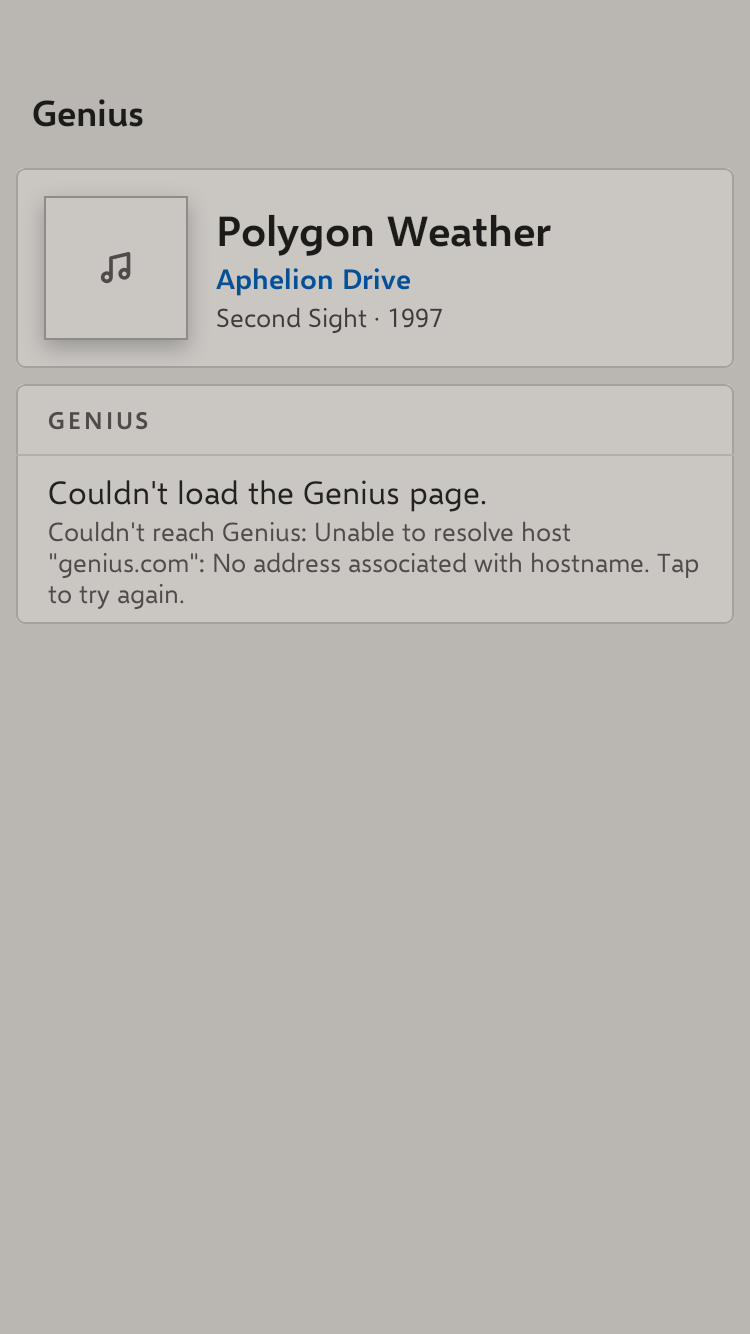
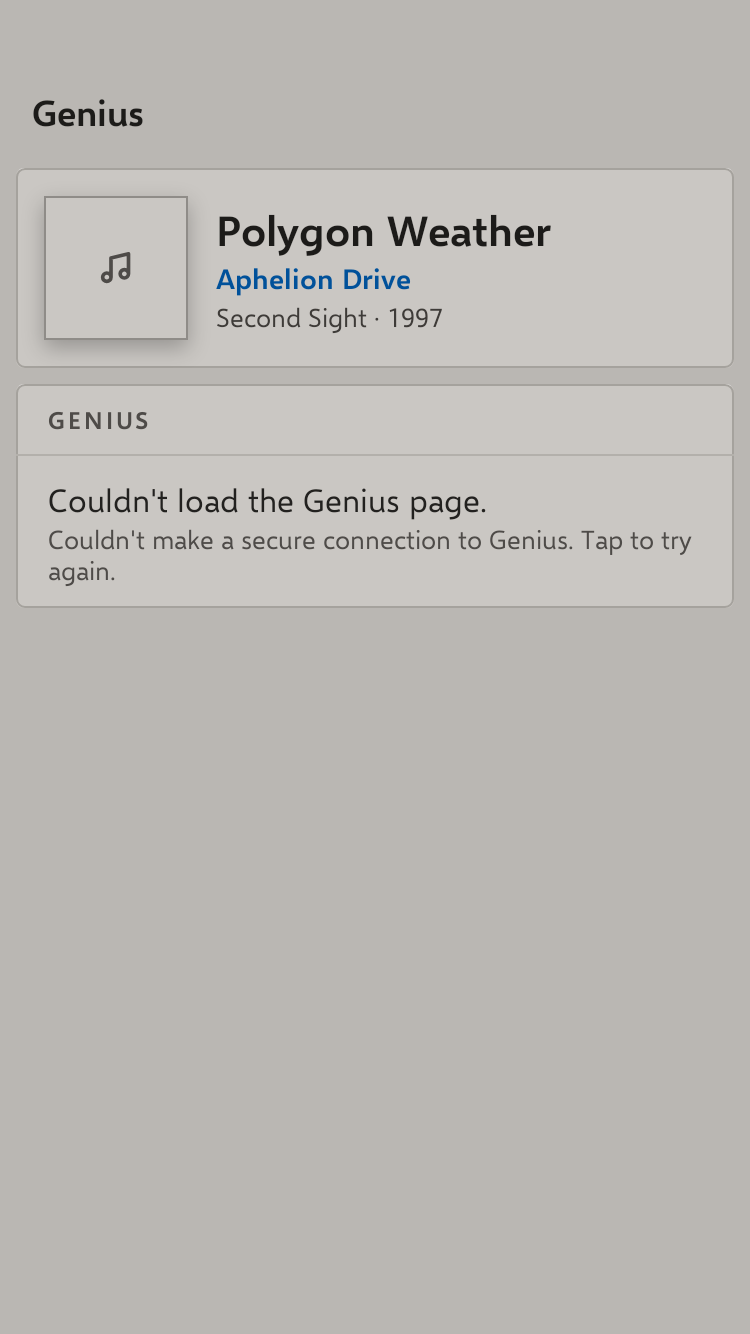
Network errors in plain words (UI/UX review #2)
Genius, Lyrics, Last.fm and the update showed Java's own exception text
when a request got no answer ("Couldn't reach Genius: java.security.cert.
CertPathValidatorException: ..."). One helper, core net/NetworkError,
now words them: "<Service> didn't answer in time.", "No internet
connection.", "Couldn't make a secure connection to <Service>.", or
"Couldn't reach <Service>." ("Couldn't download the update." for the
APK download). Java's text, with its causes, goes to logcat under
AudioFoolNet.

Used by GeniusClient, LrcLibClient, LastFmApi, GitHubReleases and
ApkDownload. NetworkErrorTest added; the Genius, Lyrics and update tests
moved to the new wording. ThemeLab's failure fixtures re-worded and the
12 genius-, lyrics- and listening-history-failed pictures re-recorded.

Docs: spec 2 (Shared parts), progress.md decision and S24 test item,
code map, the review marks #2 built, HANDOFF.

Changed region(s): [[0.0613, 0.3381, 0.92, 0.461]]

diff --git a/core/src/test/kotlin/com/mpaulrenlund/audiofool/core/net/NetworkErrorTest.kt b/core/src/test/kotlin/com/mpaulrenlund/audiofool/core/net/NetworkErrorTest.kt
@@ -1,0 +1,70 @@
+package com.mpaulrenlund.audiofool.core.net
+
+import org.junit.After
+import org.junit.Test
+import java.io.IOException
+import java.net.ConnectException
+import java.net.SocketTimeoutException
+import java.net.UnknownHostException
+import java.security.cert.CertPathValidatorException
+import javax.net.ssl.SSLHandshakeException
+import kotlin.test.assertEquals
+import kotlin.test.assertTrue
+
+// The UI/UX review of 2026-11-22, finding 2: network failures in plain words,
+// Java's own text to the log. The exceptions are the ones Android's java.net throws.
+
+class NetworkErrorTest {
+    @After
+    fun quiet() {
+        NetworkError.log = {}
+    }
+
+    @Test
+    fun `no answer in time says so`() {
+        assertEquals("Genius didn't answer in time.", NetworkError.sentence("Genius", SocketTimeoutException("timeout")))
+    }
+
+    @Test
+    fun `a name that doesn't resolve means no internet`() {
+        val e = UnknownHostException("Unable to resolve host \"lrclib.net\": No address associated with hostname")
+        assertEquals("No internet connection.", NetworkError.sentence("LRCLIB", e))
+    }
+
+    @Test
+    fun `a certificate Android doesn't trust is no secure connection`() {
+        val e = SSLHandshakeException("java.security.cert.CertPathValidatorException: Trust anchor for certification path not found.")
+        e.initCause(CertPathValidatorException("Trust anchor for certification path not found."))
+        assertEquals("Couldn't make a secure connection to Genius.", NetworkError.sentence("Genius", e))
+    }
+
+    @Test
+    fun `the cause is found under a wrapper`() {
+        val e = IOException("request failed", UnknownHostException("Unable to resolve host \"ws.audioscrobbler.com\""))
+        assertEquals("No internet connection.", NetworkError.sentence("Last.fm", e))
+    }
+
+    @Test
+    fun `anything else is couldn't reach, or the caller's own words`() {
+        val e = ConnectException("failed to connect to github.com/140.82.121.3 (port 443): connect failed: ECONNREFUSED")
+        assertEquals("Couldn't reach GitHub.", NetworkError.sentence("GitHub", e))
+        assertEquals(
+            "Couldn't download the update.",
+            NetworkError.sentence("GitHub", IOException("connection reset"), otherwise = "Couldn't download the update."),
+        )
+    }
+
+    @Test
+    fun `Java's own text goes to the log, causes and all`() {
+        val logged = mutableListOf<String>()
+        NetworkError.log = { logged += it }
+        val e = SSLHandshakeException("handshake failed")
+        e.initCause(CertPathValidatorException("Trust anchor for certification path not found."))
+
+        NetworkError.sentence("Genius", e)
+
+        val line = logged.single()
+        assertTrue(line.startsWith("Genius: javax.net.ssl.SSLHandshakeException: handshake failed"), line)
+        assertTrue("CertPathValidatorException: Trust anchor for certification path not found." in line, line)
+    }
+}

diff --git a/app/src/test/java/com/mpaulrenlund/audiofool/theme/ThemeLabTest.kt b/app/src/test/java/com/mpaulrenlund/audiofool/theme/ThemeLabTest.kt
@@ -360,7 +360,7 @@ class ThemeLabTest {
         for ((name, note) in listOf(
             "update-checking" to Updates.Note.Checking,
             "update-none" to Updates.Note.UpToDate,
-            "update-check-failed" to Updates.Note.CheckFailed("Couldn't reach GitHub: no route"),
+            "update-check-failed" to Updates.Note.CheckFailed("No internet connection."),
         )) {
             shoot(device, name) {
                 Box(Modifier.fillMaxSize()) {
@@ -386,7 +386,7 @@ class ThemeLabTest {
         shoot(device, "listening-history-not-connected") { ListeningHistoryScreen(HistoryState.NotConnected, HistoryActions()) }
         shoot(device, "listening-history-failed") {
             ListeningHistoryScreen(
-                HistoryState(user = "questinnn", phase = HistoryState.Phase.Failed, error = "Couldn't reach Last.fm: Unable to resolve host \"ws.audioscrobbler.com\"."),
+                HistoryState(user = "questinnn", phase = HistoryState.Phase.Failed, error = "No internet connection."),
                 HistoryActions(),
             )
         }
@@ -405,7 +405,7 @@ class ThemeLabTest {
         }
         shoot(device, "genius-failed") {
             GeniusScreen(
-                GeniusState(song, GeniusRows.failed(GeniusException("Couldn't reach Genius: Unable to resolve host \"genius.com\": No address associated with hostname"))),
+                GeniusState(song, GeniusRows.failed(GeniusException("Couldn't make a secure connection to Genius."))),
                 album,
                 GeniusActions(),
             )
@@ -423,7 +423,7 @@ class ThemeLabTest {
         shoot(device, "lyrics-none") { LyricsScreen(LyricsState(song, note = LyricsNote(LyricsRows.NONE)), nowPlaying(), LyricsActions()) }
         shoot(device, "lyrics-failed") {
             LyricsScreen(
-                LyricsState(song, note = LyricsRows.failed(LyricsException("Couldn't reach LRCLIB: Unable to resolve host \"lrclib.net\": No address associated with hostname"))),
+                LyricsState(song, note = LyricsRows.failed(LyricsException("No internet connection."))),
                 nowPlaying(),
                 LyricsActions(),
             )

diff --git a/core/src/main/kotlin/com/mpaulrenlund/audiofool/core/net/NetworkError.kt b/core/src/main/kotlin/com/mpaulrenlund/audiofool/core/net/NetworkError.kt
@@ -1,0 +1,41 @@
+package com.mpaulrenlund.audiofool.core.net
+
+import java.io.IOException
+import java.net.SocketTimeoutException
+import java.net.UnknownHostException
+import javax.net.ssl.SSLException
+
+/**
+ * A request that failed before any answer came (Genius, LRCLIB, Last.fm, GitHub),
+ * in a sentence for the screen: the UI/UX review of 2026-11-22, finding 2.
+ *
+ * The desktop puts .NET's own message after "Couldn't reach Genius:"
+ * (`GeniusClient.cs`, `LastFmApi.cs`), and .NET's read as sentences ("No such host
+ * is known."). Java's don't ("java.security.cert.CertPathValidatorException: Trust
+ * anchor for certification path not found."), so Android words the common causes
+ * itself and sends Java's text to [log] instead.
+ */
+object NetworkError {
+    /** Where Java's own text goes; the app points it at logcat. Quiet in the tests. */
+    @Volatile
+    var log: (String) -> Unit = {}
+
+    /**
+     * Why [service] couldn't be asked: no answer in time, no internet (the name
+     * didn't resolve: no signal, airplane mode), no secure connection (a Wi-Fi
+     * sign-in page, a wrong clock), or else [otherwise].
+     */
+    fun sentence(service: String, e: IOException, otherwise: String = "Couldn't reach $service."): String {
+        val causes = generateSequence<Throwable>(e) { it.cause }.take(MAX_CAUSES).toList()
+        log("$service: " + causes.joinToString(" / caused by "))
+        return when {
+            causes.any { it is SocketTimeoutException } -> "$service didn't answer in time."
+            causes.any { it is UnknownHostException } -> "No internet connection."
+            causes.any { it is SSLException } -> "Couldn't make a secure connection to $service."
+            else -> otherwise
+        }
+    }
+
+    /** Enough to find the cause under a wrapper or two, and an end should causes ever loop. */
+    private const val MAX_CAUSES = 8
+}

diff --git a/app/src/main/java/com/mpaulrenlund/audiofool/AudioFoolApp.kt b/app/src/main/java/com/mpaulrenlund/audiofool/AudioFoolApp.kt
@@ -3,6 +3,7 @@ package com.mpaulrenlund.audiofool
 import android.app.Application
 import android.os.Build
 import android.os.SystemClock
+import android.util.Log
 import androidx.compose.runtime.getValue
 import androidx.compose.runtime.mutableIntStateOf
 import androidx.compose.runtime.mutableStateOf
@@ -10,6 +11,7 @@ import androidx.compose.runtime.setValue
 import com.mpaulrenlund.audiofool.core.genius.GeniusClient
 import com.mpaulrenlund.audiofool.core.genius.GeniusLookup
 import com.mpaulrenlund.audiofool.core.library.DriveChange
+import com.mpaulrenlund.audiofool.core.net.NetworkError
 import com.mpaulrenlund.audiofool.genius.Genius
 import com.mpaulrenlund.audiofool.core.lyrics.LrcLibClient
 import com.mpaulrenlund.audiofool.core.lyrics.OnlineLyrics
@@ -156,6 +158,8 @@ class AudioFoolApp : Application() {
 
     override fun onCreate() {
         super.onCreate()
+        // Java's own text for a failed request (the screens say it in plain words): logcat only.
+        NetworkError.log = { Log.w(NET_TAG, it) }
         settings = AppSettings(this)
         library = LibraryRepository(
             cachePath = File(noBackupFilesDir, "library.bin").path,
@@ -235,6 +239,9 @@ class AudioFoolApp : Application() {
 
         /** The 96-bar ones before 0.2.4, deleted at start. */
         const val OLD_WAVEFORMS = "waveforms"
+
+        /** Logcat's tag for requests that failed: `adb logcat -s AudioFoolNet:W`. */
+        const val NET_TAG = "AudioFoolNet"
     }
 }
 

diff --git a/core/src/main/kotlin/com/mpaulrenlund/audiofool/core/updates/GitHubReleases.kt b/core/src/main/kotlin/com/mpaulrenlund/audiofool/core/updates/GitHubReleases.kt
@@ -1,5 +1,6 @@
 package com.mpaulrenlund.audiofool.core.updates
 
+import com.mpaulrenlund.audiofool.core.net.NetworkError
 import com.mpaulrenlund.audiofool.core.scrobbling.HttpAnswer
 import kotlinx.coroutines.Dispatchers
 import kotlinx.coroutines.withContext
@@ -13,7 +14,6 @@ import kotlinx.serialization.json.booleanOrNull
 import kotlinx.serialization.json.longOrNull
 import java.io.IOException
 import java.net.HttpURLConnection
-import java.net.SocketTimeoutException
 import java.net.URI
 
 /** Why an update couldn't be looked up or downloaded, in words the pop-up shows. */
@@ -39,10 +39,8 @@ class GitHubReleases(private val url: String = RELEASES_API, private val transpo
     suspend fun list(): List<AppRelease> = withContext(Dispatchers.IO) {
         val answer = try {
             transport.get(url)
-        } catch (e: SocketTimeoutException) {
-            throw UpdateException("GitHub didn't answer in time.")
         } catch (e: IOException) {
-            throw UpdateException("Couldn't reach GitHub: ${e.message ?: e.javaClass.simpleName}")
+            throw UpdateException(NetworkError.sentence("GitHub", e))
         }
         if (answer.status !in 200..299) throw UpdateException("GitHub answered HTTP ${answer.status}.")
         val doc = try {

diff --git a/core/src/main/kotlin/com/mpaulrenlund/audiofool/core/lyrics/LrcLib.kt b/core/src/main/kotlin/com/mpaulrenlund/audiofool/core/lyrics/LrcLib.kt
@@ -1,5 +1,6 @@
 package com.mpaulrenlund.audiofool.core.lyrics
 
+import com.mpaulrenlund.audiofool.core.net.NetworkError
 import com.mpaulrenlund.audiofool.core.scrobbling.HttpAnswer
 import kotlinx.coroutines.Dispatchers
 import kotlinx.coroutines.withContext
@@ -14,7 +15,6 @@ import kotlinx.serialization.json.doubleOrNull
 import kotlinx.serialization.json.longOrNull
 import java.io.IOException
 import java.net.HttpURLConnection
-import java.net.SocketTimeoutException
 import java.net.URI
 import java.net.URLEncoder
 
@@ -64,10 +64,8 @@ class LrcLibClient(private val transport: LrcLibTransport = HttpTransport) {
     private suspend fun <T> request(path: String, notFoundIsNull: Boolean, read: (JsonElement) -> T?): T? = withContext(Dispatchers.IO) {
         val answer = try {
             transport.get(BASE_URL + path)
-        } catch (e: SocketTimeoutException) {
-            throw LyricsException("LRCLIB didn't answer in time.")
         } catch (e: IOException) {
-            throw LyricsException("Couldn't reach LRCLIB: ${e.message ?: e.javaClass.simpleName}")
+            throw LyricsException(NetworkError.sentence("LRCLIB", e))
         }
         if (answer.status == 404 && notFoundIsNull) return@withContext null
 

diff --git a/core/src/main/kotlin/com/mpaulrenlund/audiofool/core/genius/GeniusClient.kt b/core/src/main/kotlin/com/mpaulrenlund/audiofool/core/genius/GeniusClient.kt
@@ -1,5 +1,6 @@
 package com.mpaulrenlund.audiofool.core.genius
 
+import com.mpaulrenlund.audiofool.core.net.NetworkError
 import com.mpaulrenlund.audiofool.core.scrobbling.HttpAnswer
 import kotlinx.coroutines.Dispatchers
 import kotlinx.coroutines.withContext
@@ -10,7 +11,6 @@ import kotlinx.serialization.json.JsonObject
 import kotlinx.serialization.json.JsonPrimitive
 import java.io.IOException
 import java.net.HttpURLConnection
-import java.net.SocketTimeoutException
 import java.net.URI
 import java.net.URLEncoder
 
@@ -54,10 +54,8 @@ class GeniusClient(private val transport: GeniusTransport = HttpTransport) {
     private suspend fun <T> get(path: String, read: (JsonElement) -> T): T = withContext(Dispatchers.IO) {
         val answer = try {
             transport.get(BASE_URL + path)
-        } catch (e: SocketTimeoutException) {
-            throw GeniusException("Genius didn't answer in time.")
         } catch (e: IOException) {
-            throw GeniusException("Couldn't reach Genius: ${e.message ?: e.javaClass.simpleName}")
+            throw GeniusException(NetworkError.sentence("Genius", e))
         }
 
         // Every answer of Genius's is an object. kotlinx reads a bare word such as

diff --git a/app/src/test/java/com/mpaulrenlund/audiofool/genius/GeniusTest.kt b/app/src/test/java/com/mpaulrenlund/audiofool/genius/GeniusTest.kt
@@ -13,8 +13,8 @@ import com.mpaulrenlund.audiofool.core.scrobbling.HttpAnswer
 import org.junit.Test
 import org.junit.runner.RunWith
 import org.robolectric.Shadows.shadowOf
-import java.io.IOException
 import java.net.URI
+import java.net.UnknownHostException
 import java.time.Instant
 import java.time.ZoneOffset
 import java.util.Collections
@@ -128,7 +128,7 @@ class GeniusTest {
             val uri = URI(url)
             val path = uri.rawPath + (uri.rawQuery?.let { "?$it" } ?: "")
             asked.add(path)
-            if (offline) throw IOException("Unable to resolve host \"genius.com\"")
+            if (offline) throw UnknownHostException("Unable to resolve host \"genius.com\"")
             return HttpAnswer(200, answer(path))
         }
     }
@@ -216,7 +216,7 @@ class GeniusTest {
         g.show(track)
         waitFor { g.state.note?.retry == true }
         assertEquals("Couldn't load the Genius page.", g.state.note?.text)
-        assertEquals("Couldn't reach Genius: Unable to resolve host \"genius.com\". Tap to try again.", g.state.note?.detail)
+        assertEquals("No internet connection. Tap to try again.", g.state.note?.detail)
 
         fake.offline = false
         g.retry()

diff --git a/core/src/test/kotlin/com/mpaulrenlund/audiofool/core/updates/UpdatesTest.kt b/core/src/test/kotlin/com/mpaulrenlund/audiofool/core/updates/UpdatesTest.kt
@@ -69,7 +69,7 @@ class UpdatesTest {
     @Test
     fun `GitHub unreachable, refusing or answering nonsense says so`() {
         val unreachable = GitHubReleases(transport = { throw IOException("no route") })
-        assertEquals("Couldn't reach GitHub: no route", assertFailsWith<UpdateException> { runBlocking { unreachable.list() } }.message)
+        assertEquals("Couldn't reach GitHub.", assertFailsWith<UpdateException> { runBlocking { unreachable.list() } }.message)
         val limited = GitHubReleases(transport = { HttpAnswer(403, """{"message": "API rate limit exceeded"}""") })
         assertEquals("GitHub answered HTTP 403.", assertFailsWith<UpdateException> { runBlocking { limited.list() } }.message)
         val nonsense = GitHubReleases(transport = { HttpAnswer(200, "<html>") })
@@ -152,7 +152,7 @@ class UpdatesTest {
             })
         }
         val e = assertFailsWith<UpdateException> { runBlocking { failing.fetch(releaseOf(), file) { _, _ -> } } }
-        assertEquals("Couldn't download the update: connection reset", e.message)
+        assertEquals("Couldn't download the update.", e.message)
         assertFalse(file.exists())
     }
 }

diff --git a/core/src/main/kotlin/com/mpaulrenlund/audiofool/core/scrobbling/LastFmApi.kt b/core/src/main/kotlin/com/mpaulrenlund/audiofool/core/scrobbling/LastFmApi.kt
@@ -1,5 +1,6 @@
 package com.mpaulrenlund.audiofool.core.scrobbling
 
+import com.mpaulrenlund.audiofool.core.net.NetworkError
 import kotlinx.coroutines.Dispatchers
 import kotlinx.coroutines.withContext
 import kotlinx.serialization.json.Json
@@ -11,7 +12,6 @@ import kotlinx.serialization.json.contentOrNull
 import kotlinx.serialization.json.intOrNull
 import java.io.IOException
 import java.net.HttpURLConnection
-import java.net.SocketTimeoutException
 import java.net.URI
 import java.net.URLEncoder
 import java.security.MessageDigest
@@ -204,10 +204,8 @@ class LastFmApi(apiKey: String, secret: String, private val transport: LastFmTra
     private suspend fun send(request: () -> HttpAnswer): JsonObject {
         val answer = try {
             withContext(Dispatchers.IO) { request() }
-        } catch (e: SocketTimeoutException) {
-            throw LastFmException(0, "Last.fm didn't answer in time.")
         } catch (e: IOException) {
-            throw LastFmException(0, "Couldn't reach Last.fm: ${e.message}")
+            throw LastFmException(0, NetworkError.sentence("Last.fm", e))
         }
 
         val root = try {

diff --git a/core/src/test/kotlin/com/mpaulrenlund/audiofool/core/lyrics/LyricsTest.kt b/core/src/test/kotlin/com/mpaulrenlund/audiofool/core/lyrics/LyricsTest.kt
@@ -6,6 +6,7 @@ import org.junit.Test
 import java.io.File
 import java.io.IOException
 import java.net.URI
+import java.net.UnknownHostException
 import java.net.URLDecoder
 import java.nio.file.Files
 import kotlin.test.assertEquals
@@ -281,13 +282,13 @@ class LyricsTest {
         var fail = true
         val fake = object : LrcLibTransport {
             override fun get(url: String): HttpAnswer {
-                if (fail) throw IOException("Unable to resolve host \"lrclib.net\"")
+                if (fail) throw UnknownHostException("Unable to resolve host \"lrclib.net\"")
                 return HttpAnswer(200, json(1, "Band", "Song", 200.0, "[00:01.00]One", null))
             }
         }
         val online = OnlineLyrics(LrcLibClient(fake))
         val e = assertFailsWith<LyricsException> { online.find("Band", null, "Song", "Album", 200_000) }
-        assertEquals("Couldn't reach LRCLIB: Unable to resolve host \"lrclib.net\"", e.message)
+        assertEquals("No internet connection.", e.message)
         fail = false
         assertTrue(online.find("Band", null, "Song", "Album", 200_000).lyrics!!.synced)
 

diff --git a/core/src/main/kotlin/com/mpaulrenlund/audiofool/core/updates/ApkDownload.kt b/core/src/main/kotlin/com/mpaulrenlund/audiofool/core/updates/ApkDownload.kt
@@ -1,5 +1,6 @@
 package com.mpaulrenlund.audiofool.core.updates
 
+import com.mpaulrenlund.audiofool.core.net.NetworkError
 import kotlinx.coroutines.Dispatchers
 import kotlinx.coroutines.ensureActive
 import kotlinx.coroutines.withContext
@@ -8,7 +9,6 @@ import java.io.File
 import java.io.IOException
 import java.io.InputStream
 import java.net.HttpURLConnection
-import java.net.SocketTimeoutException
 import java.net.URI
 import java.security.MessageDigest
 
@@ -66,8 +66,7 @@ class ApkDownload(private val transport: DownloadTransport = HttpTransport) {
         } catch (e: Throwable) {
             file.delete()
             throw when (e) {
-                is SocketTimeoutException -> UpdateException("GitHub didn't answer in time.")
-                is IOException -> UpdateException("Couldn't download the update: ${e.message ?: e.javaClass.simpleName}")
+                is IOException -> UpdateException(NetworkError.sentence("GitHub", e, otherwise = "Couldn't download the update."))
                 else -> e
             }
         }
